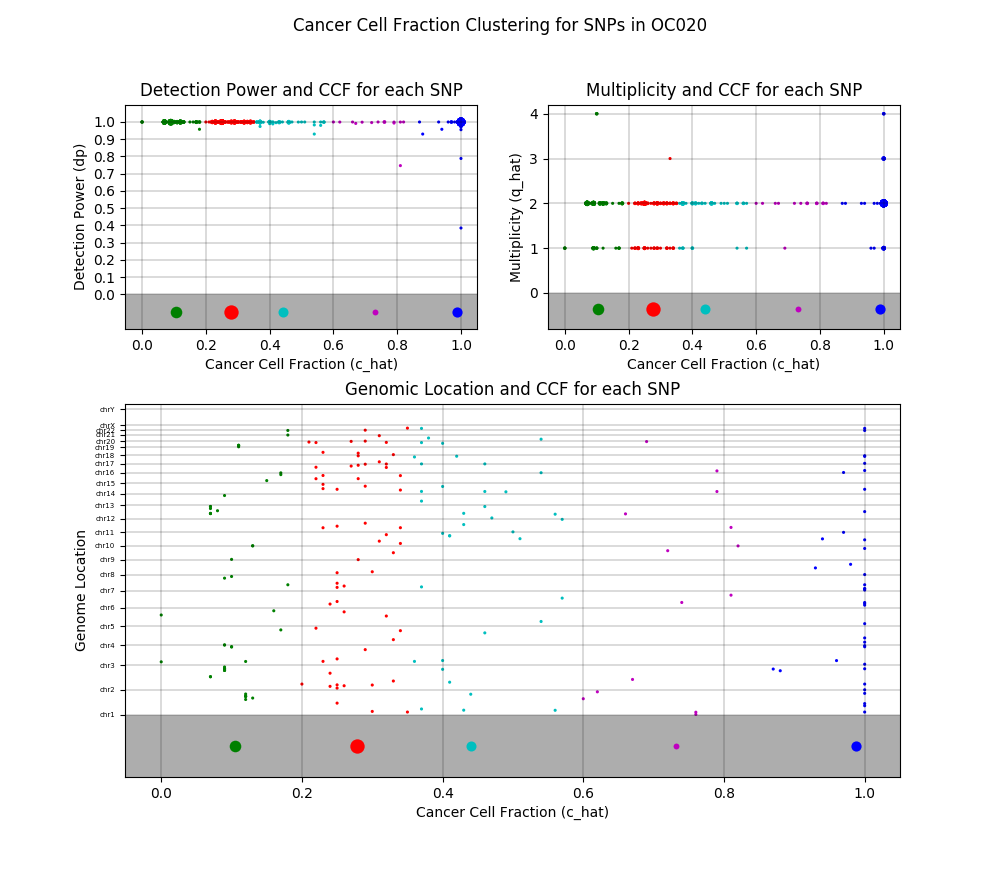
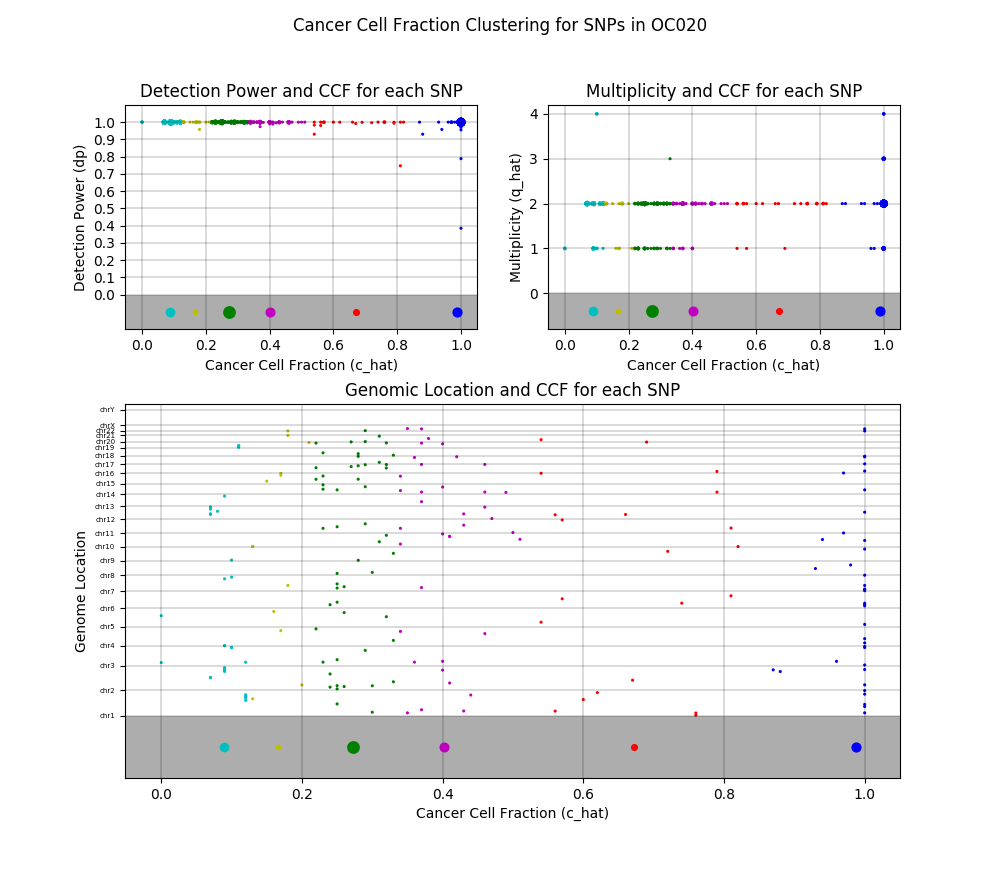
Fix centroid placement and update example plot

diff --git a/abs_maf_analyzer/abs_maf_analyzer.py b/abs_maf_analyzer/abs_maf_analyzer.py
@@ -177,7 +177,7 @@ class AbsMafAnalyzer:
             ax_3.grid(color='k', linestyle='-', linewidth=.2)
             ax_3.set_xlabel("Cancer Cell Fraction (c_hat)")
             ax_3.set_ylabel("Multiplicity (q_hat)")
-            ax_3.plot([centroid], [-.35], '.', c='k', markeredgewidth=0, markerfacecolor=color,
+            ax_3.plot([centroid], [-.1*max_q_hat], '.', c='k', markeredgewidth=0, markerfacecolor=color,
                       markeredgecolor='k', markersize=centroid_marker_size)
 
             point_sizes = [(count_at_ccf_and_q_hat[(snp.get('ccf_hat'), snp.get('q_hat'))] - min_dp_count) / (max_dp_count - min_dp_count) * point_max_size + point_min_size for snp in data]
